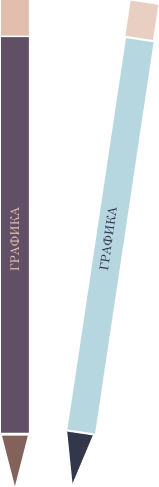
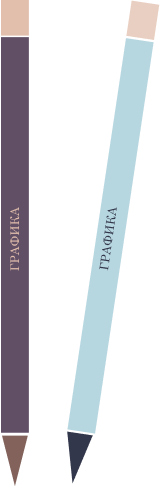
шоо

diff --git a/stylesheet/layout.css b/stylesheet/layout.css
@@ -156,10 +156,10 @@ body {
   animation: fly2 4s alternate infinite;
 }
 .p3 {
-  width: 233.01px;
-  height: 233.01px;
-  z-index: 7;
+  width: 159.26px;
+  height: 486.14px;
+  z-index: 15;
   position: relative;
-  margin-left: 114px;
-  margin-top: 2px;
+  margin-left: 1193px;
+  margin-top: -323px;
 }
